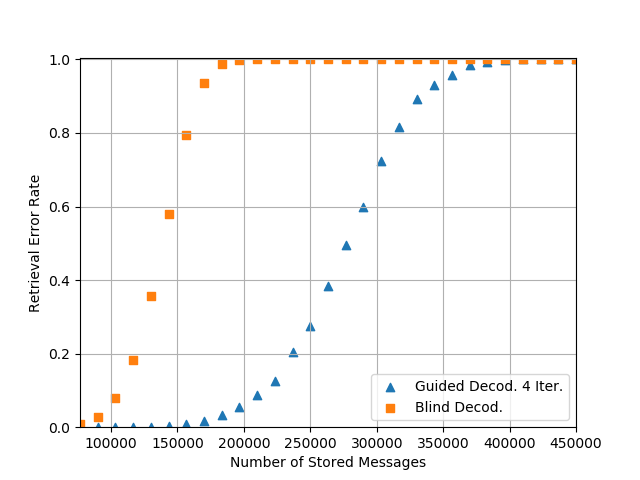
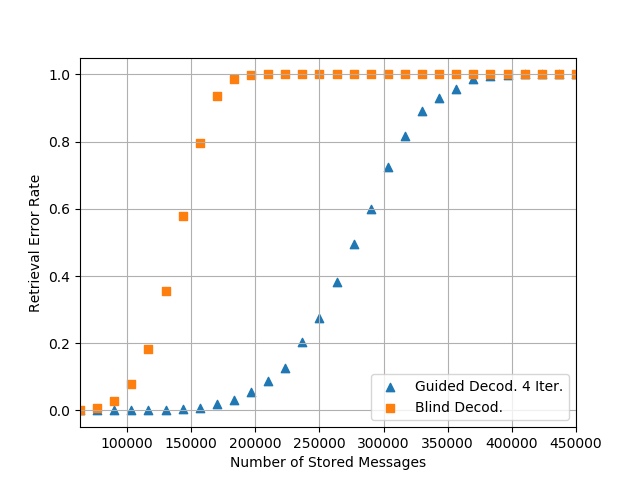
improve the plot

diff --git a/figplot.py b/figplot.py
@@ -8,7 +8,7 @@ data = data[1:,:]
 
 axes = plt.gca()
 axes.set_xlim([data[-1,1],data[0,1]])
-axes.set_ylim([0,1.005])
+axes.set_ylim([-0.05,1.05])
 
 plt.scatter(data[:,1],data[:,2], label='Guided Decod. 4 Iter.',marker='^')
 plt.scatter(data[:,1],data[:,3], label='Blind Decod.',marker='s')

diff --git a/README.md b/README.md
@@ -57,5 +57,6 @@ for further developments.
              20         103342     0.00025445        0.07941
              85          90009     6.5894e-05       0.028939
             446          76676     1.4639e-05      0.0086214
+           3026          63343     2.6087e-06      0.0019565
 ```
 ![results](results.png)
